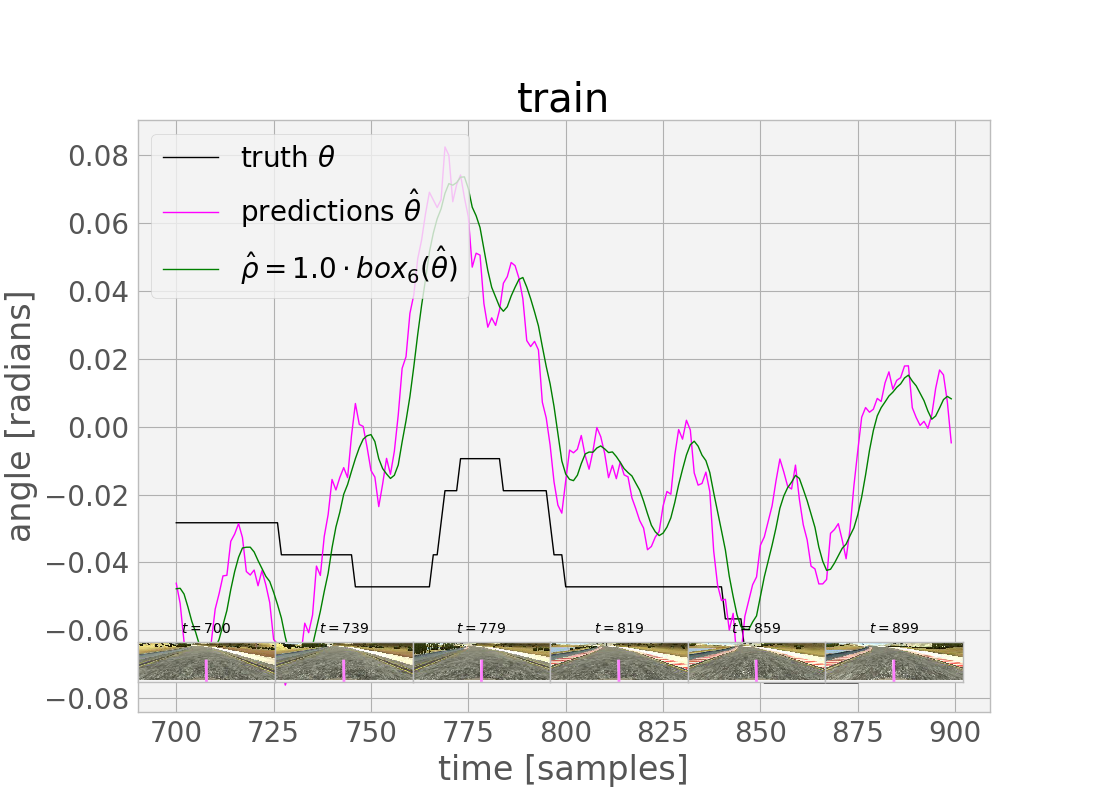
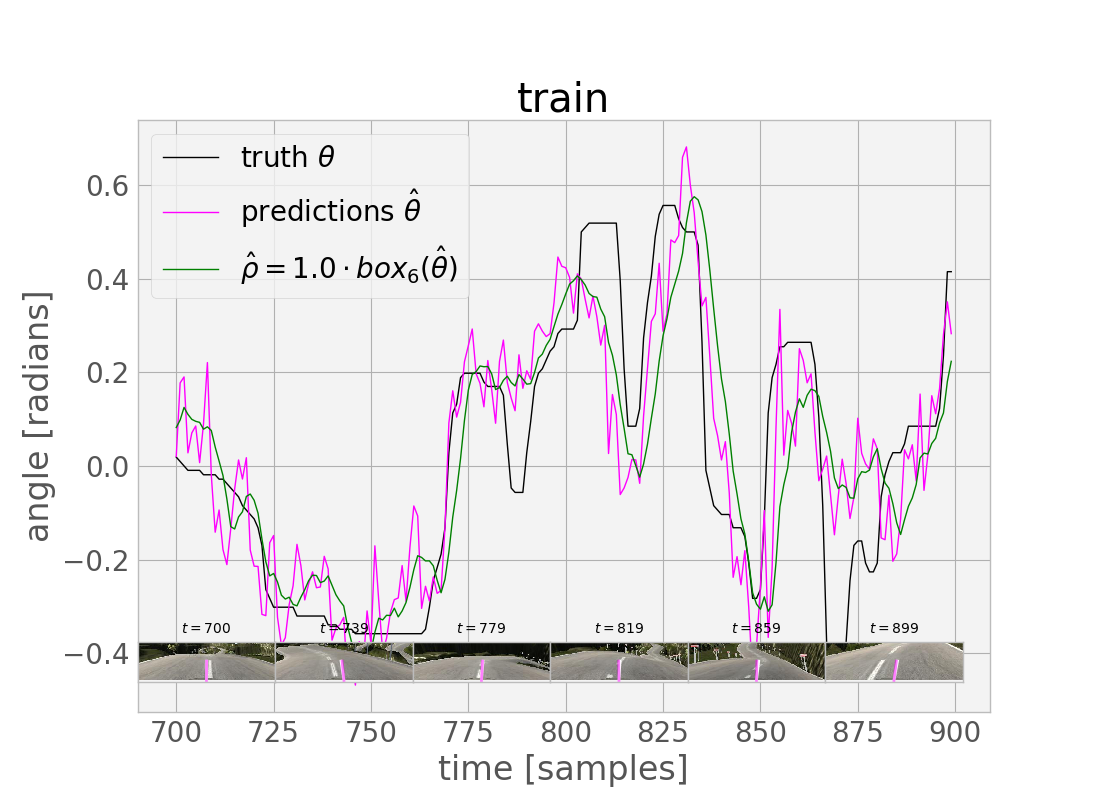
Train more-capable jungle network.

diff --git a/model.py b/model.py
@@ -5,12 +5,12 @@ import nnUtils, loadData, models
 
 
 ## SET PARAMETERS.
-epochs = 18
+epochs = 6
 learningRate = .0001
-kernel_regularizer = keras.regularizers.l2(0.01)
+kernel_regularizer = keras.regularizers.l2(0.001)
 #bias_regularizer = keras.regularizers.l2(0.01)
 bias_regularizer = None
-epochSubsampling = 1
+epochSubsampling = .5
 denseActivation = 'tanh'
 lastActivation = 'tanh'
 batchBaseSize = 25
@@ -22,18 +22,19 @@ dataGenerator = loadData.DeemphasizedZeroDataGenerator(
     [
         os.path.join(loadData.HOME, 'data2', 'behavioralCloning', p)
         for p in (
-            'mouseForward.zip',
-            'mouseReverse.zip',
-            'longCarefulForward.zip',
-            'longCarefulReverse.zip',
-            'data_provided.zip',
-            'dirtSidesForward.zip',
-            'dirtSidesReverse.zip',
-            # 'jungleMouseCenterForward.zip',
-            # 'jungleMouseCenterReverse.zip',
+            # 'mouseForward.zip',
+            # 'mouseReverse.zip',
+            # 'longCarefulForward.zip',
+            # 'longCarefulReverse.zip',
+            # 'data_provided.zip',
+            # 'dirtSidesForward.zip',
+            # 'dirtSidesReverse.zip',
+            'jungleMouseCenterForward.zip',
+            'jungleMouseCenterReverse.zip',
         )
     ],
-    sidecamAdjustment=.15,
+    sidecamAdjustment=.5,
+    # For using different values of sidecamAdjustment per zipfile:
     #sidecamAdjustment=[.15, .15, .6, .6],
     batchBaseSize=batchBaseSize,
 )
@@ -41,7 +42,7 @@ dataGenerator = loadData.DeemphasizedZeroDataGenerator(
 
 ## DEFINE MODEL.
 modelname = (
-    'bigdata-deemZero-kl2%.1g-%depoch-subsamp%.1g-scads_%s-fc_%s-final_%s-batchBaseSize_%d' % (
+    'jungle-deemZero-kl2%.1g-%depoch-subsamp%.1g-scads_%s-fc_%s-final_%s-batchBaseSize_%d' % (
     kernel_regularizer.l2, epochs, epochSubsampling, 
     '_'.join(['%.2g' % sca for sca in dataGenerator.sidecamAdjustments]),
     denseActivation, lastActivation, batchBaseSize
@@ -56,7 +57,6 @@ model = models.Nvidia(
     denseActivation=denseActivation,
     lastActivation=lastActivation,
 )
-print(model.summary())
 
 
 ## TRAIN THE MODEL.

diff --git a/drive.py b/drive.py
@@ -30,7 +30,7 @@ maxThrottle = 2
 minThrottle = -1
 minSpeed = 1.0
 slowdownFactor = 2
-baseSpeedTarget = 30  # Can do 30 on the main track; need more like 12 for the jungle.
+baseSpeedTarget = 20  # Can do 30 on the main track; need more like 20 for the jungle.
 
 
 class SimplePIController:
